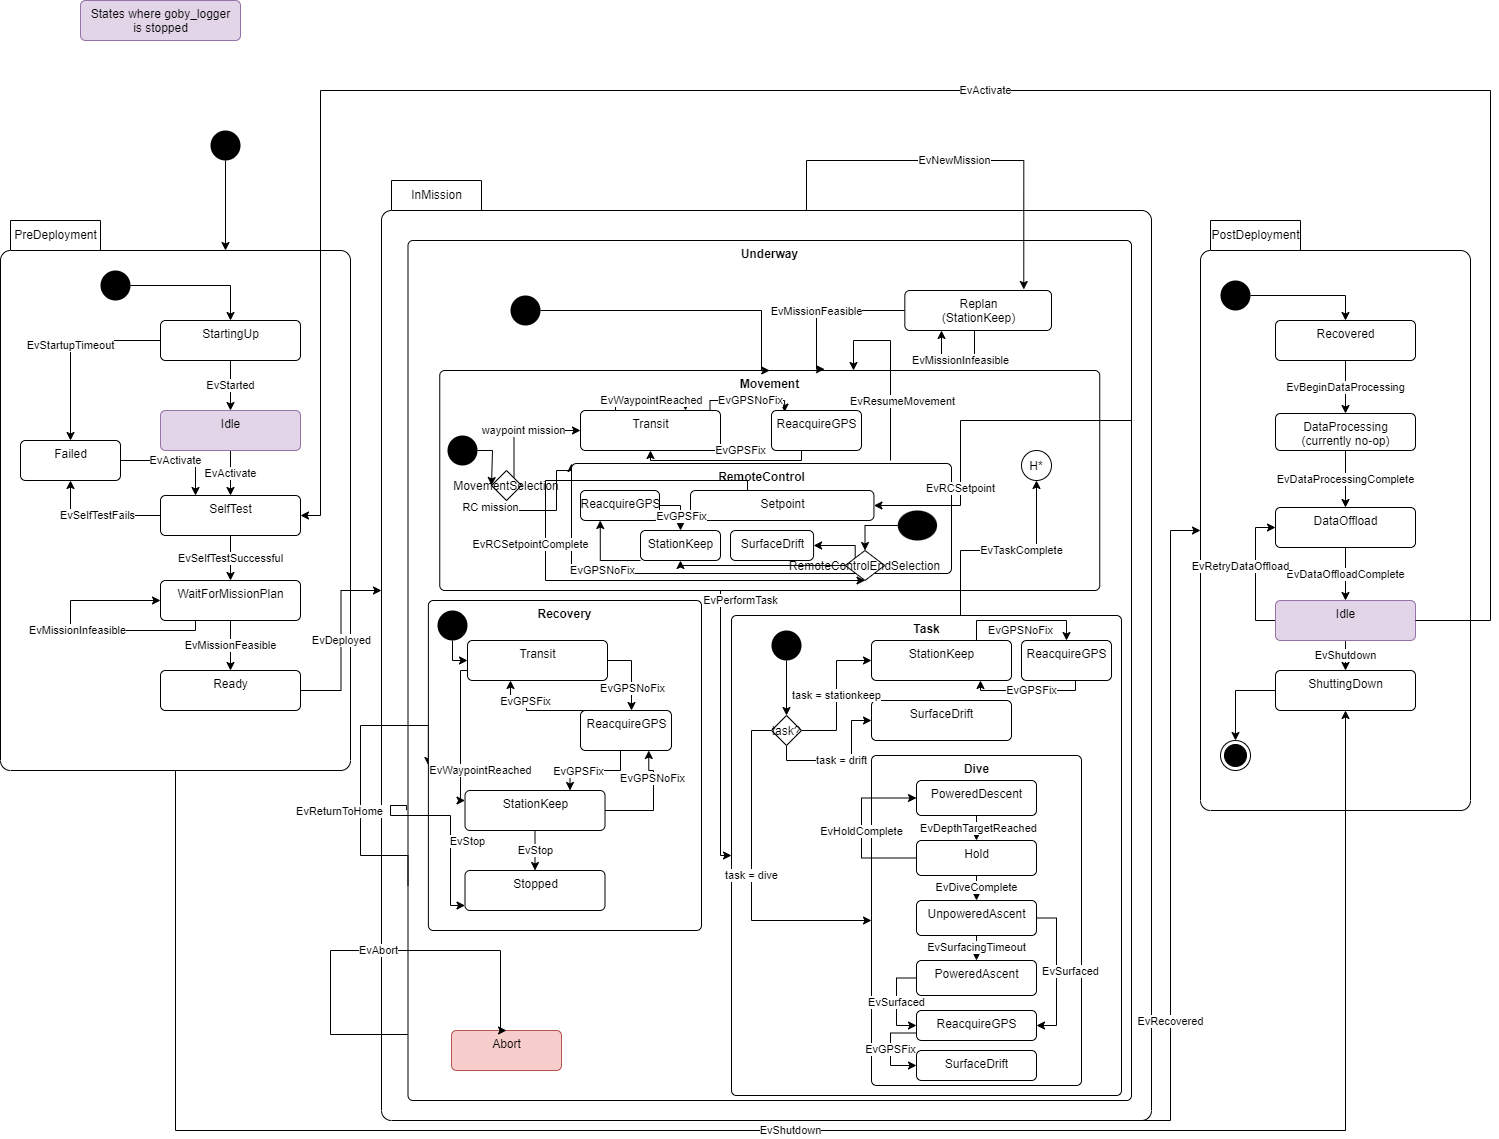
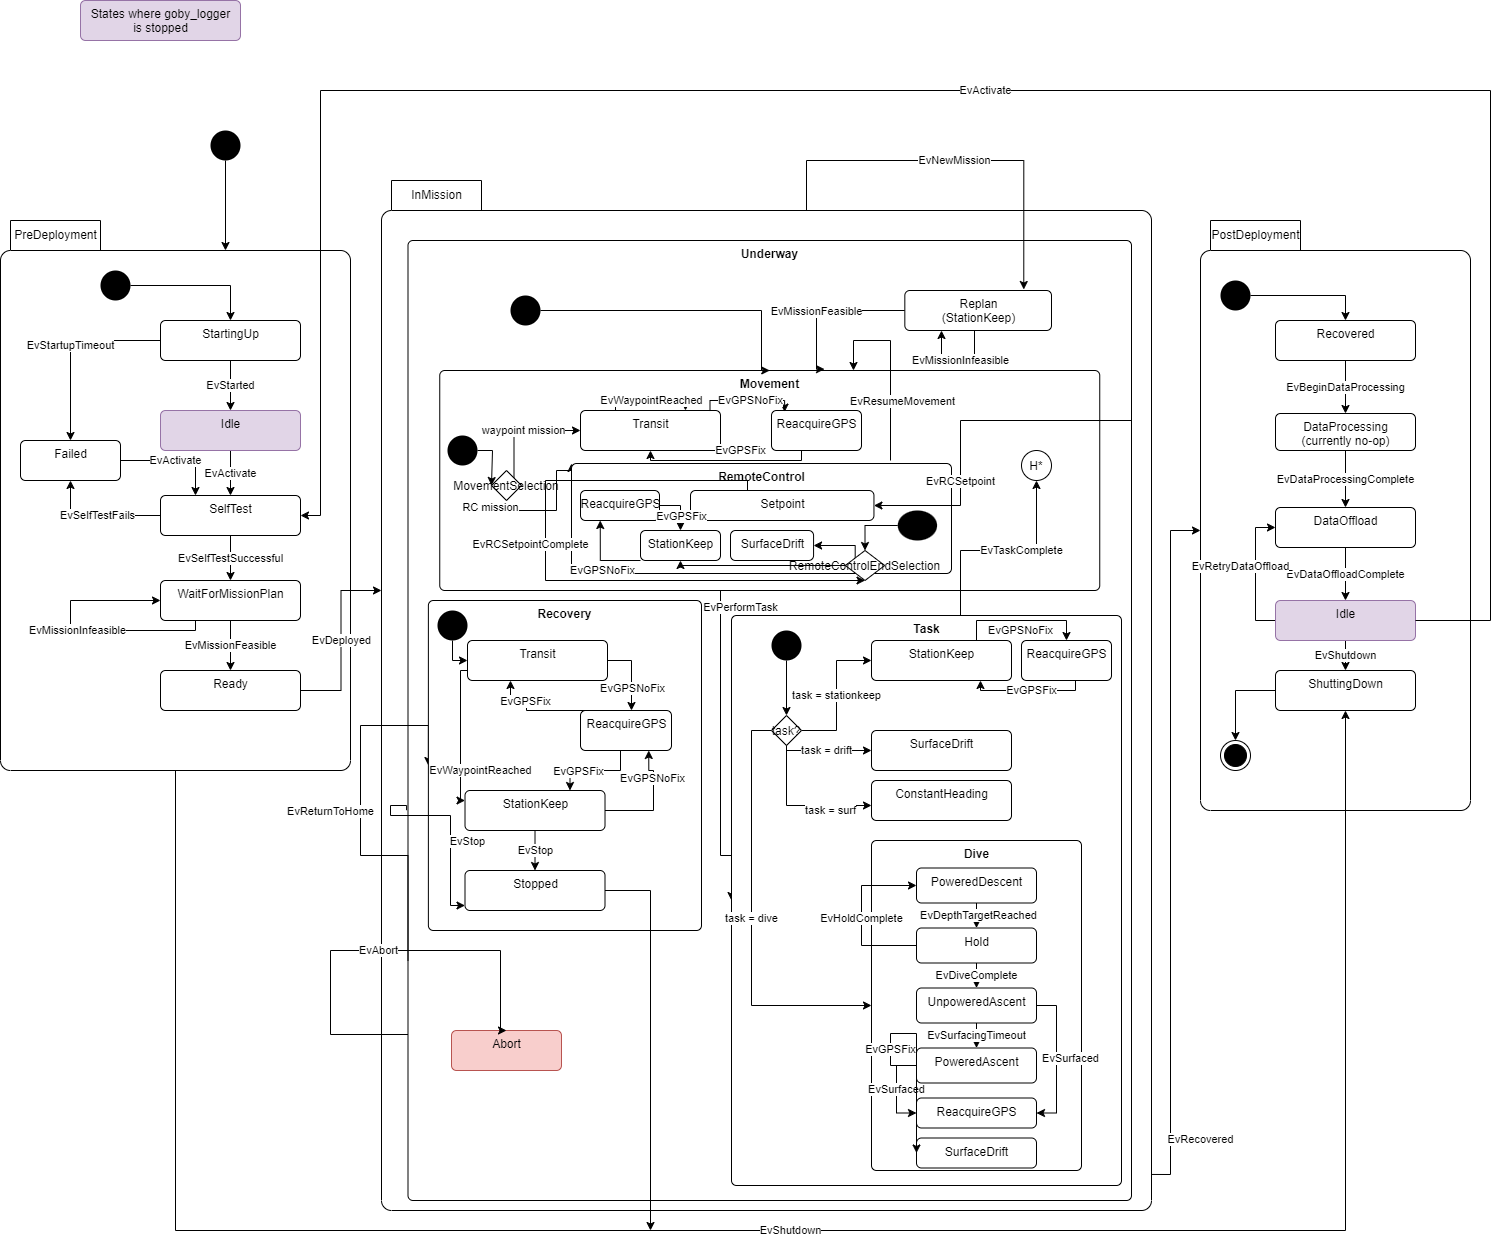
task/JAIAB-5-update-state-diagram-to-include-surf-task (#324)
* Added surf task

* Updated mission state figure to include surf zone task

* Changed from surfzone task to constant heading task

* Changed name from surf zone to constant heading task

* Commenting out constant heading in the ui until it is fully functional

* Updated mission state diagram to include shutdown from state stopped

diff --git a/src/doc/markdown/page60_mission_management.md b/src/doc/markdown/page60_mission_management.md
@@ -42,6 +42,7 @@ The goal is to keep the state machine as simple as possible while still supporti
 				- PoweredAscent: Bot is performing a powered ascent to the surface.
 				- ReacquireGPS: Bot is waiting (on the surface) for the GPS to reacquire a fix.
 				- SurfaceDrift: Bot is drifting to estimate currents.
+			* ConstantHeading: Bot is driving on a constant heading for a certain time
 			* ...: Can be expanded in the future for other types of Tasks.
 		+ Recovery: Bot is returning to a safe location for recovery.
 			* Transit: Bot is transiting to the recovery location.
@@ -101,6 +102,7 @@ Events are what drives the changes in states. Some events are triggered by the o
 - EvRetryDataOffload:  Triggered when the operator sends Command type: RETRY_DATA_OFFLOAD
 - EvGPSFix: GPS Fix received
 - EvGPSNoFix: GPS No Fix received
+- EvVehicleGPS: GPS data received
 
 #### Internal events
 
